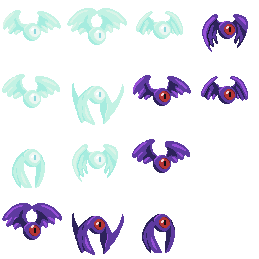
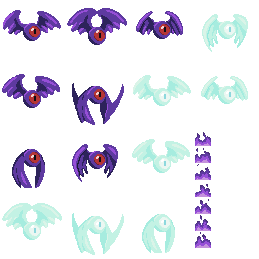
made enemy float higher an move faster, also added fire

diff --git a/src/prefabs/Obstacle.js b/src/prefabs/Obstacle.js
@@ -10,8 +10,8 @@ class Obstacle extends Phaser.Physics.Arcade.Sprite
         this.dead = false;
         this.overlapping = false;           // helps control dead collision checks
         this.touching = false;              // helps control alive collision checks
-        this.floatSpeed = -35 //Don't put this higher than 200, it will miss it's target
-        this.stoppingPointDist = 50 //Stop 150 pixels above this point when dead
+        this.floatSpeed = -199 //Don't put this higher than 200, it will miss it's target
+        this.stoppingPointDist = 160 //Stop 150 pixels above this point when dead
         this.stoppingPoint = 0
 
         // creating animations
